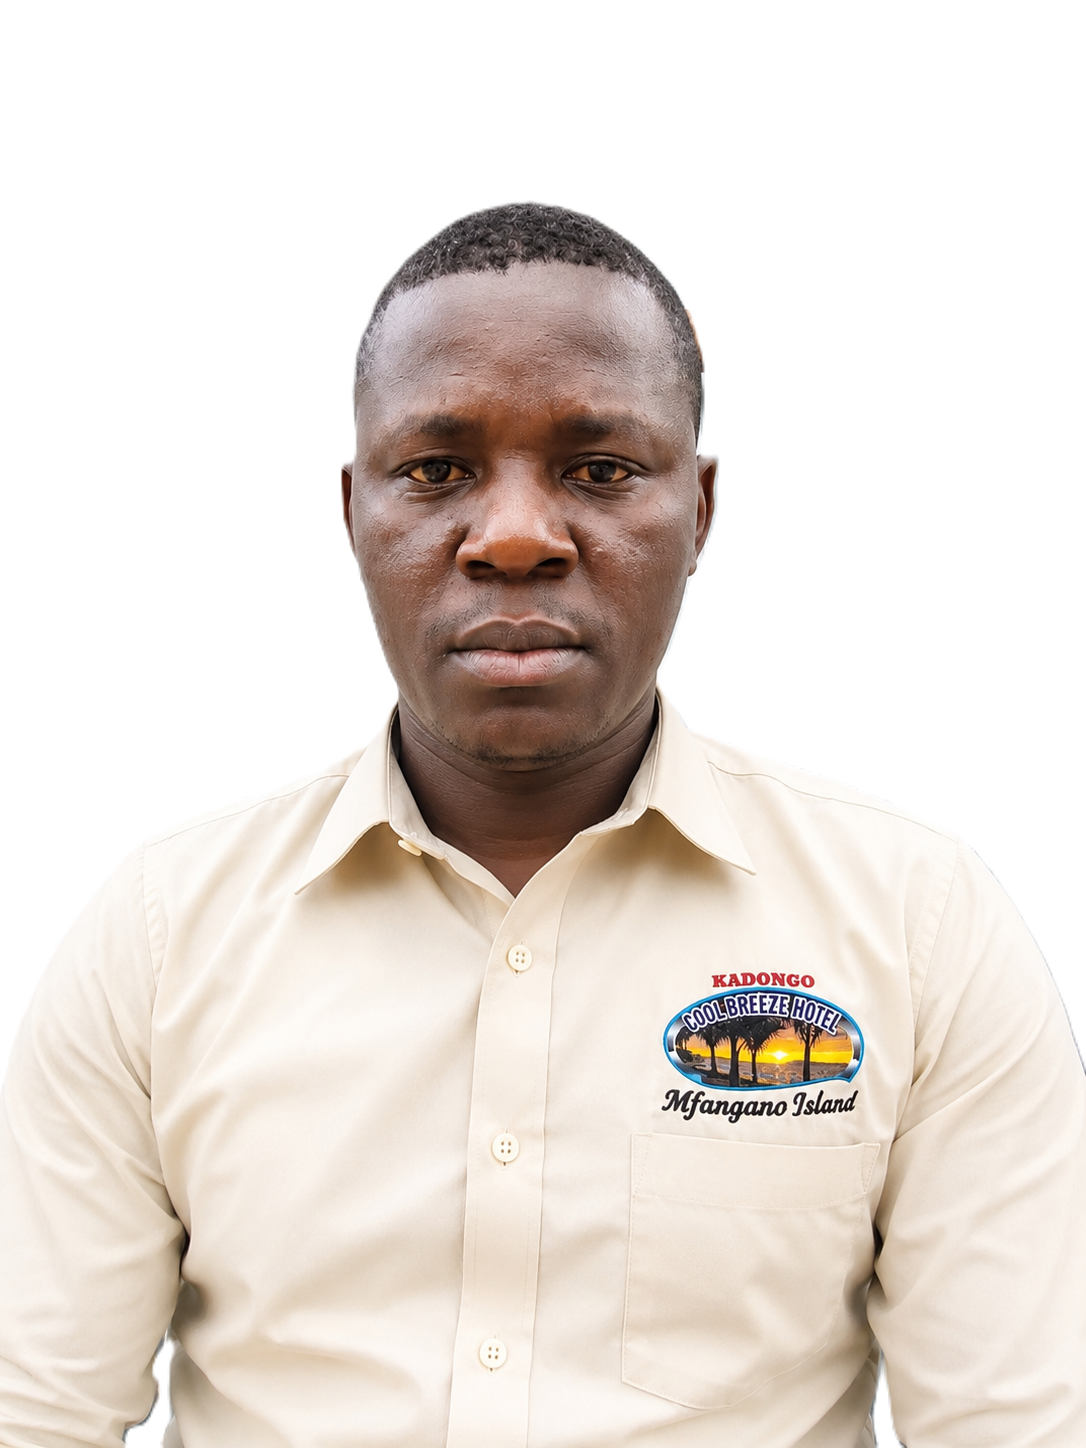
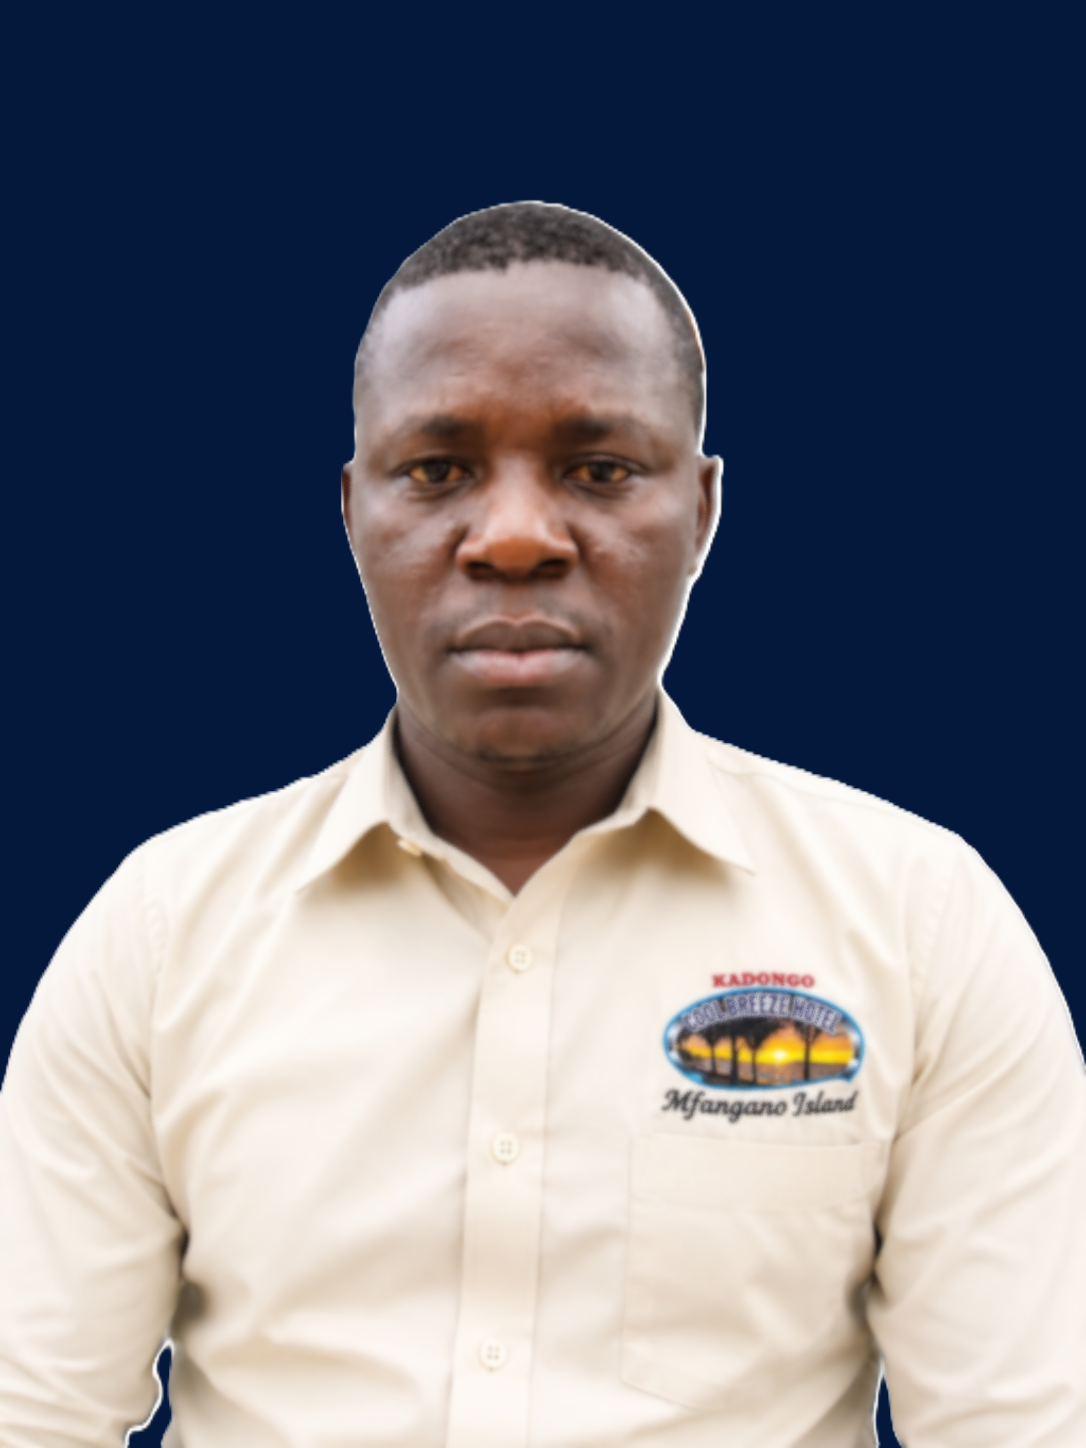
r

diff --git a/dining.html b/dining.html
@@ -961,7 +961,7 @@
 
         <div class="features-grid reveal-stagger">
             <div class="feature-item">
-                <span class="material-icons">wb_sunny</span>
+                <span class="material-icons">sunny</span>
                 <h4>Scenic Sunsets</h4>
                 <p>Watch the sun dip below Lake Victoria while you dine.</p>
             </div>